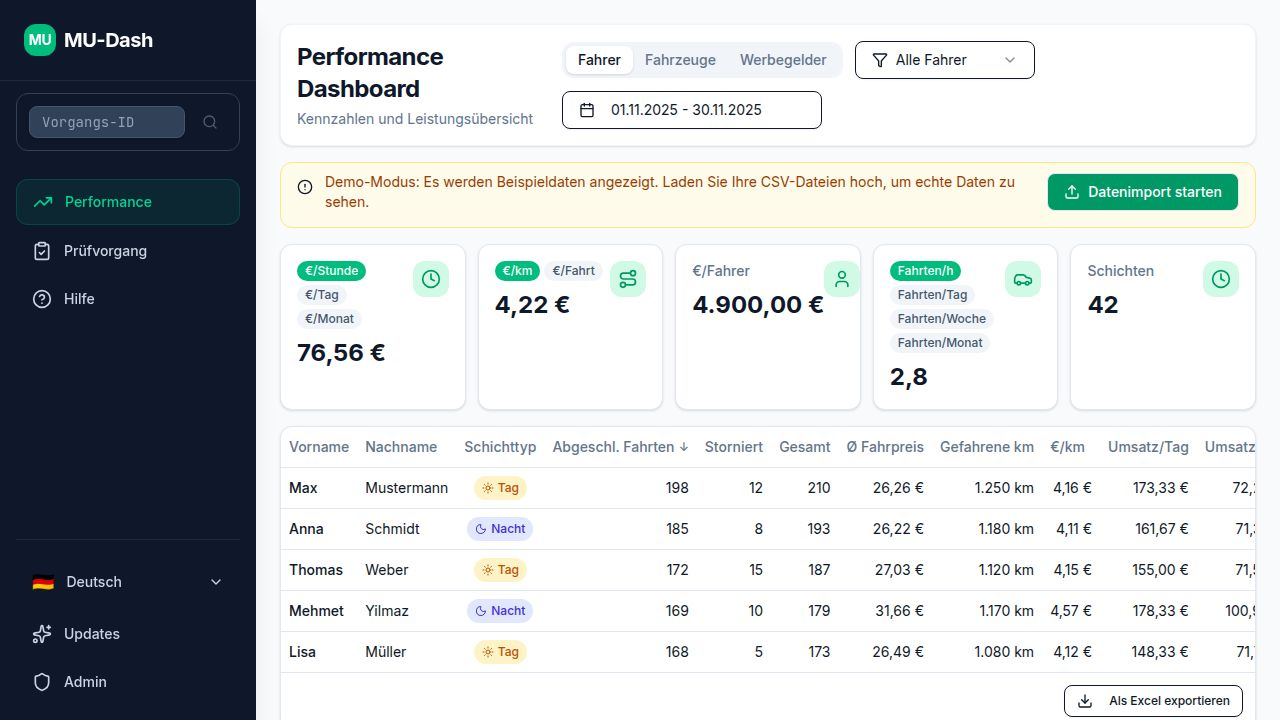
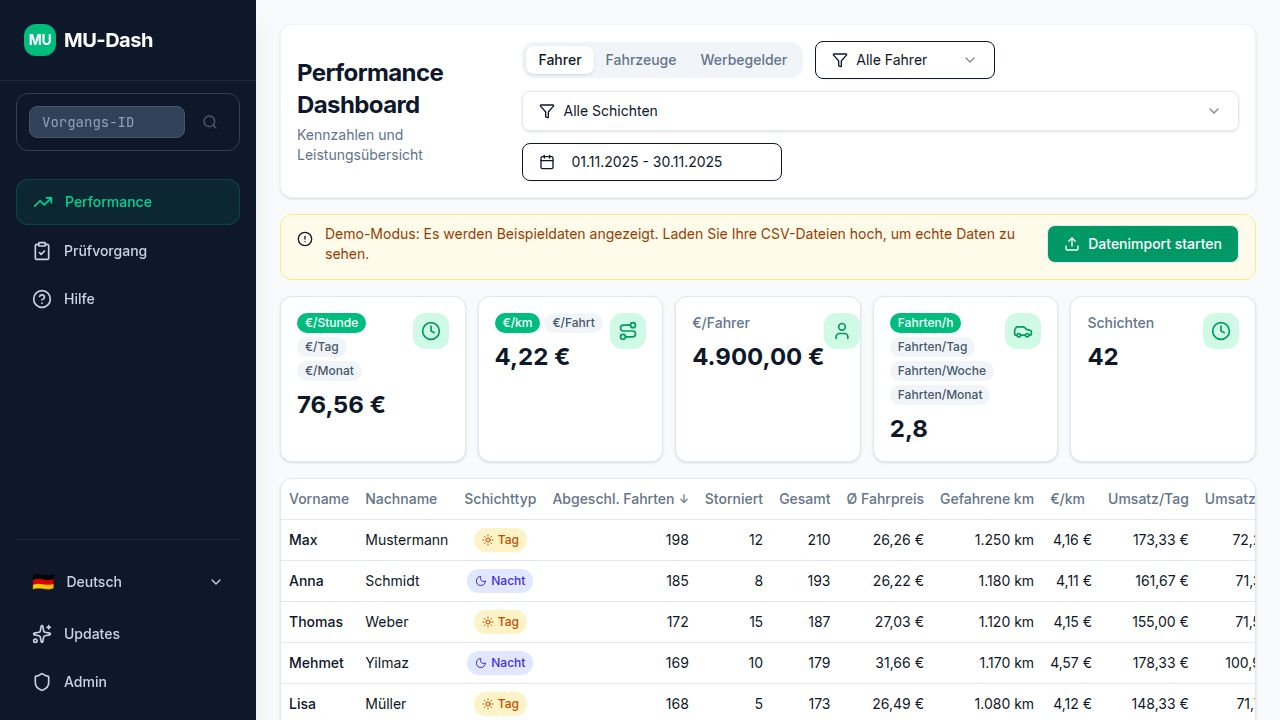
Update dropdown styling to match other filter components
Modify the shift type filter's SelectTrigger component in the performance page to align with the MultiSelect component's styling, including min-width, icon display, and text formatting.

Replit-Commit-Author: Agent
Replit-Commit-Session-Id: eda07c47-fa0f-4dfd-ad98-edfbeb6350f6
Replit-Commit-Checkpoint-Type: full_checkpoint
Replit-Commit-Event-Id: d78f6f2b-a999-44dd-a27f-18396346bd72
Replit-Commit-Screenshot-Url: https://storage.googleapis.com/screenshot-production-us-central1/74f01f64-59c9-4fe7-973c-309debf47daa/eda07c47-fa0f-4dfd-ad98-edfbeb6350f6/QJcw5xG
Replit-Helium-Checkpoint-Created: true

diff --git a/client/src/pages/performance.tsx b/client/src/pages/performance.tsx
@@ -1682,8 +1682,11 @@ export default function PerformancePage() {
                   testId="filter-drivers"
                 />
                 <Select value={shiftFilter} onValueChange={(value: "all" | "day" | "night") => setShiftFilter(value)}>
-                  <SelectTrigger className="w-[160px]" data-testid="filter-shift-type">
-                    <SelectValue placeholder={t('performance.filterShiftType')} />
+                  <SelectTrigger className="min-w-[180px] justify-between text-left font-normal h-10 px-4 border-input" data-testid="filter-shift-type">
+                    <div className="flex items-center gap-2">
+                      {shiftFilter === "day" ? <Sun className="h-4 w-4" /> : shiftFilter === "night" ? <Moon className="h-4 w-4" /> : <Filter className="h-4 w-4" />}
+                      <SelectValue placeholder={t('performance.filterShiftType')} />
+                    </div>
                   </SelectTrigger>
                   <SelectContent>
                     <SelectItem value="all" data-testid="filter-shift-all">{t('performance.filterAllShifts')}</SelectItem>
